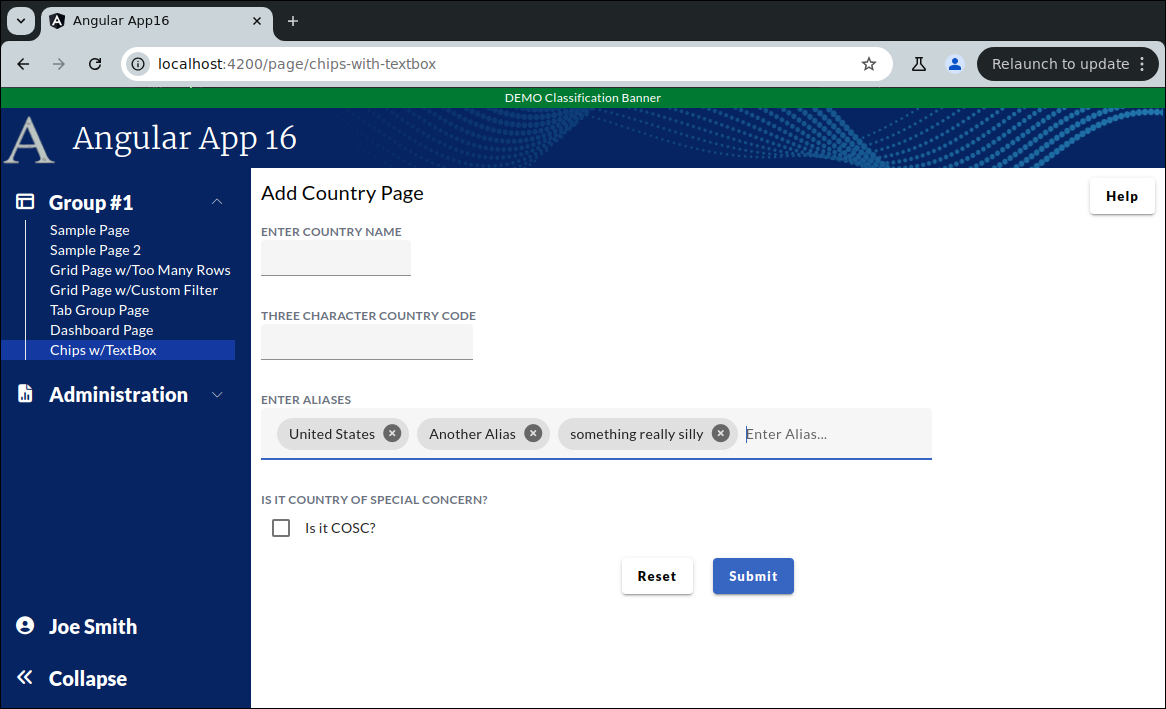
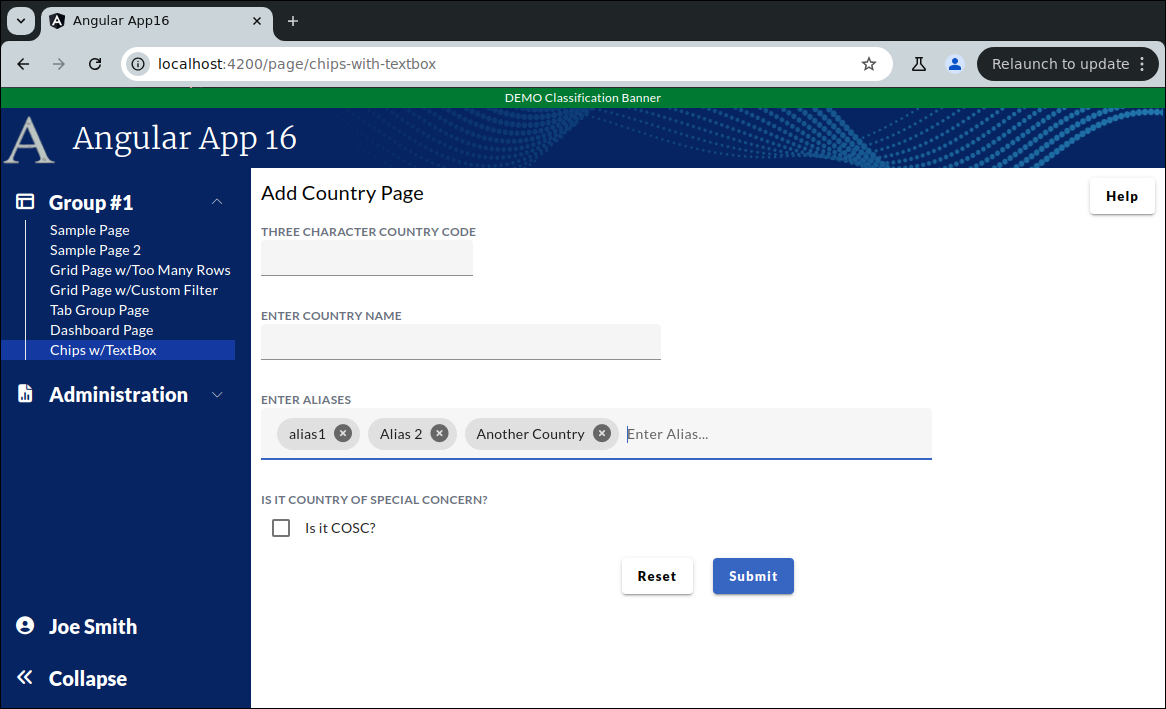
Update

Changed region(s): [[0.247, 0.5896, 0.7101, 0.6206], [0.2161, 0.4344, 0.4014, 0.4654], [0.2161, 0.3103, 0.4014, 0.3413]]

diff --git a/learnAngular/lessons_Angular16/exercises/exercise26a.chips.use-with-textbox.answers.md b/learnAngular/lessons_Angular16/exercises/exercise26a.chips.use-with-textbox.answers.md
@@ -30,9 +30,9 @@ Part 1 / Setup the Page
     +----------------------------------------------------------------------+
     | Add Country                                                     Help |
     +----------------------------------------------------------------------+ 
-    | <Three Character Country Code Text Box>                              |  textbox has width of 150px
+    | <Three Character Country Code Text Box>                              |  textbox has width of 200px
     |                                                                      |
-    | <Country Name Text Box>                                              |  textbox has width of 250px
+    | <Country Name Text Box>                                              |  textbox has width of 400px
     |                                                                      |
     | <Aliases Text Box>                                                   |  textbox has width of 75% of page width
     | Hint:  Press 'Enter' to add an alias                                 |
@@ -108,27 +108,28 @@ Part 1 / Setup the Page
       <div class="overflow-y-auto mt-2.5" style="height: calc(100vh - 150px)">
     
         <div class="flex flex-col gap-y-2.5">
-    
-          <div>
-            <!-- Country Name Text Box-->
-            <span class="app-form-label">Enter Country Name</span>
-            <mat-form-field class="max-reduced-density w-[150px]">
-              <input type="text" matInput title="Enter Country Name"/>
-            </mat-form-field>
-          </div>
-    
+      
           <div>
             <!-- Three Character Country Code Text Box -->
             <span class="app-form-label">Three Character Country Code</span>
-            <mat-form-field class="max-reduced-density [w-250px]">
+            <mat-form-field class="max-reduced-density [w-200px]">
               <input type="text" matInput title="Three Character Country Code"/>
             </mat-form-field>
           </div>
+            
+          <div>
+            <!-- Country Name Text Box-->
+            <span class="app-form-label">Enter Country Name</span>
+            <mat-form-field class="max-reduced-density w-[400px]">
+              <input type="text" matInput title="Enter Country Name"/>
+            </mat-form-field>
+          </div>
+
     
           <div>
             <!-- A L I A S E S      T E X T     B O X    -->
             <span class="app-form-label">Enter Aliases</span>
-            <mat-form-field class="max-reduced-density w-[350px]">
+            <mat-form-field class="max-reduced-density w-3/4">
               <input type="text" matInput title="Enter Aliases"/>
             </mat-form-field>
           </div>
@@ -186,31 +187,32 @@ Part 1 / Setup the Page
         <div class="overflow-y-auto mt-2.5" style="height: calc(100vh - 150px)">
     
           <div class="flex flex-col gap-y-2.5">
-    
-            <div>
-              <!-- Country Name Text Box-->
-              <span class="app-form-label">Enter Country Name</span>
-              <mat-form-field class="max-reduced-density w-[150px]">
-                <input type="text" matInput formControlName="threeCharCode"  title="Enter Country Name"/>
-    
-                <mat-error>This field is required</mat-error>
-              </mat-form-field>
-            </div>
-    
+      
             <div>
               <!-- Three Character Country Code Text Box -->
               <span class="app-form-label">Three Character Country Code</span>
-              <mat-form-field class="max-reduced-density [w-250px]">
+              <mat-form-field class="max-reduced-density [w-200px]">
                 <input type="text" matInput formControlName="countryName" title="Three Character Country Code"/>
     
                 <mat-error>This field is required</mat-error>
               </mat-form-field>
             </div>
+              
+            <div>
+              <!-- Country Name Text Box-->
+              <span class="app-form-label">Enter Country Name</span>
+              <mat-form-field class="max-reduced-density w-[400px]">
+                <input type="text" matInput formControlName="threeCharCode"  title="Enter Country Name"/>
+    
+                <mat-error>This field is required</mat-error>
+              </mat-form-field>
+            </div>
+
     
             <div>
               <!-- A L I A S E S      T E X T     B O X -->
               <span class="app-form-label">Enter Aliases</span>
-              <mat-form-field class="max-reduced-density w-[350px]">
+              <mat-form-field class="max-reduced-density w-3/4">
                 <input type="text" matInput formControlName="aliasText" title="Enter Aliases"/>
     
     
@@ -346,7 +348,7 @@ Part 2 / Change the Aliases Text Box to a Text Box with Chips
         <div>
           <!-- A L I A S E S      T E X T     B O X -->
           <span class="app-form-label">Enter Aliases</span>
-          <mat-form-field class="max-reduced-density w-[350px]">
+          <mat-form-field class="max-reduced-density w-3/4">
 
             <mat-chip-grid #chipGrid aria-label="Enter country aliases">
 
@@ -411,24 +413,25 @@ Part 2 / Change the Aliases Text Box to a Text Box with Chips
           <div class="flex flex-col gap-y-2.5">
     
             <div>
-              <!-- Country Name Text Box-->
-              <span class="app-form-label">Enter Country Name</span>
-              <mat-form-field class="max-reduced-density w-[150px]">
-                <input type="text" matInput formControlName="threeCharCode"  title="Enter Country Name"/>
+              <!-- Three Character Country Code Text Box -->
+              <span class="app-form-label">Three Character Country Code</span>
+              <mat-form-field class="max-reduced-density [w-200px]">
+                <input type="text" matInput formControlName="countryName" title="Three Character Country Code"/>
     
                 <mat-error>This field is required</mat-error>
               </mat-form-field>
             </div>
     
             <div>
-              <!-- Three Character Country Code Text Box -->
-              <span class="app-form-label">Three Character Country Code</span>
-              <mat-form-field class="max-reduced-density [w-250px]">
-                <input type="text" matInput formControlName="countryName" title="Three Character Country Code"/>
+              <!-- Country Name Text Box-->
+              <span class="app-form-label">Enter Country Name</span>
+              <mat-form-field class="max-reduced-density w-[400px]">
+                <input type="text" matInput formControlName="threeCharCode"  title="Enter Country Name"/>
     
                 <mat-error>This field is required</mat-error>
               </mat-form-field>
             </div>
+    
     
             <div>
               <!-- A L I A S E S      T E X T     B O X -->
@@ -549,7 +552,7 @@ Part 2 / Change the Aliases Text Box to a Text Box with Chips
       }
     
     
-      
+    
       public submitClicked(): void {
         // Touch all form fields (to show any errors)
         this.myForm.markAllAsTouched();
@@ -609,5 +612,6 @@ Part 2 / Change the Aliases Text Box to a Text Box with Chips
       }
     
     }
+
 
 ```

diff --git a/learnAngular/lessons_Angular16/exercises/exercise26a.chips.use-with-textbox.question.md b/learnAngular/lessons_Angular16/exercises/exercise26a.chips.use-with-textbox.question.md
@@ -30,9 +30,9 @@ Part 1 / Setup the Page
     +----------------------------------------------------------------------+
     | Add Country                                                     Help |
     +----------------------------------------------------------------------+ 
-    | <Three Character Country Code Text Box>                              |  textbox has width of 150px
+    | <Three Character Country Code Text Box>                              |  textbox has width of 200px
     |                                                                      |
-    | <Country Name Text Box>                                              |  textbox has width of 250px
+    | <Country Name Text Box>                                              |  textbox has width of 400px
     |                                                                      |
     | <Aliases Text Box>                                                   |  textbox has width of 75% of page width
     | Hint:  Press 'Enter' to add an alias                                 |
